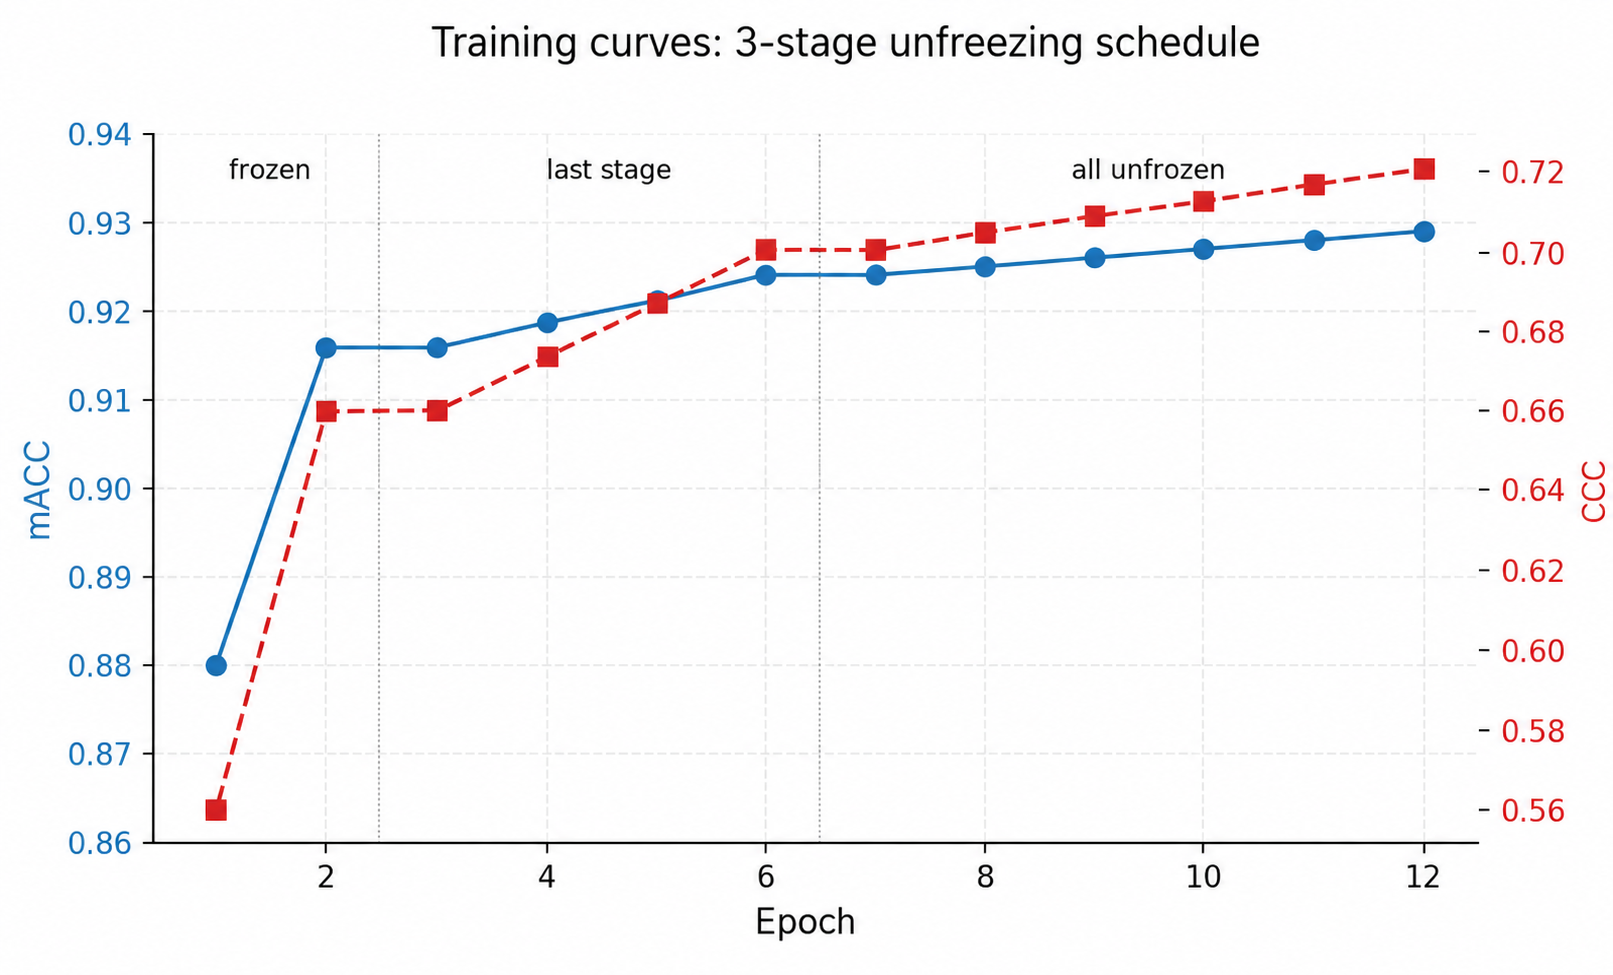
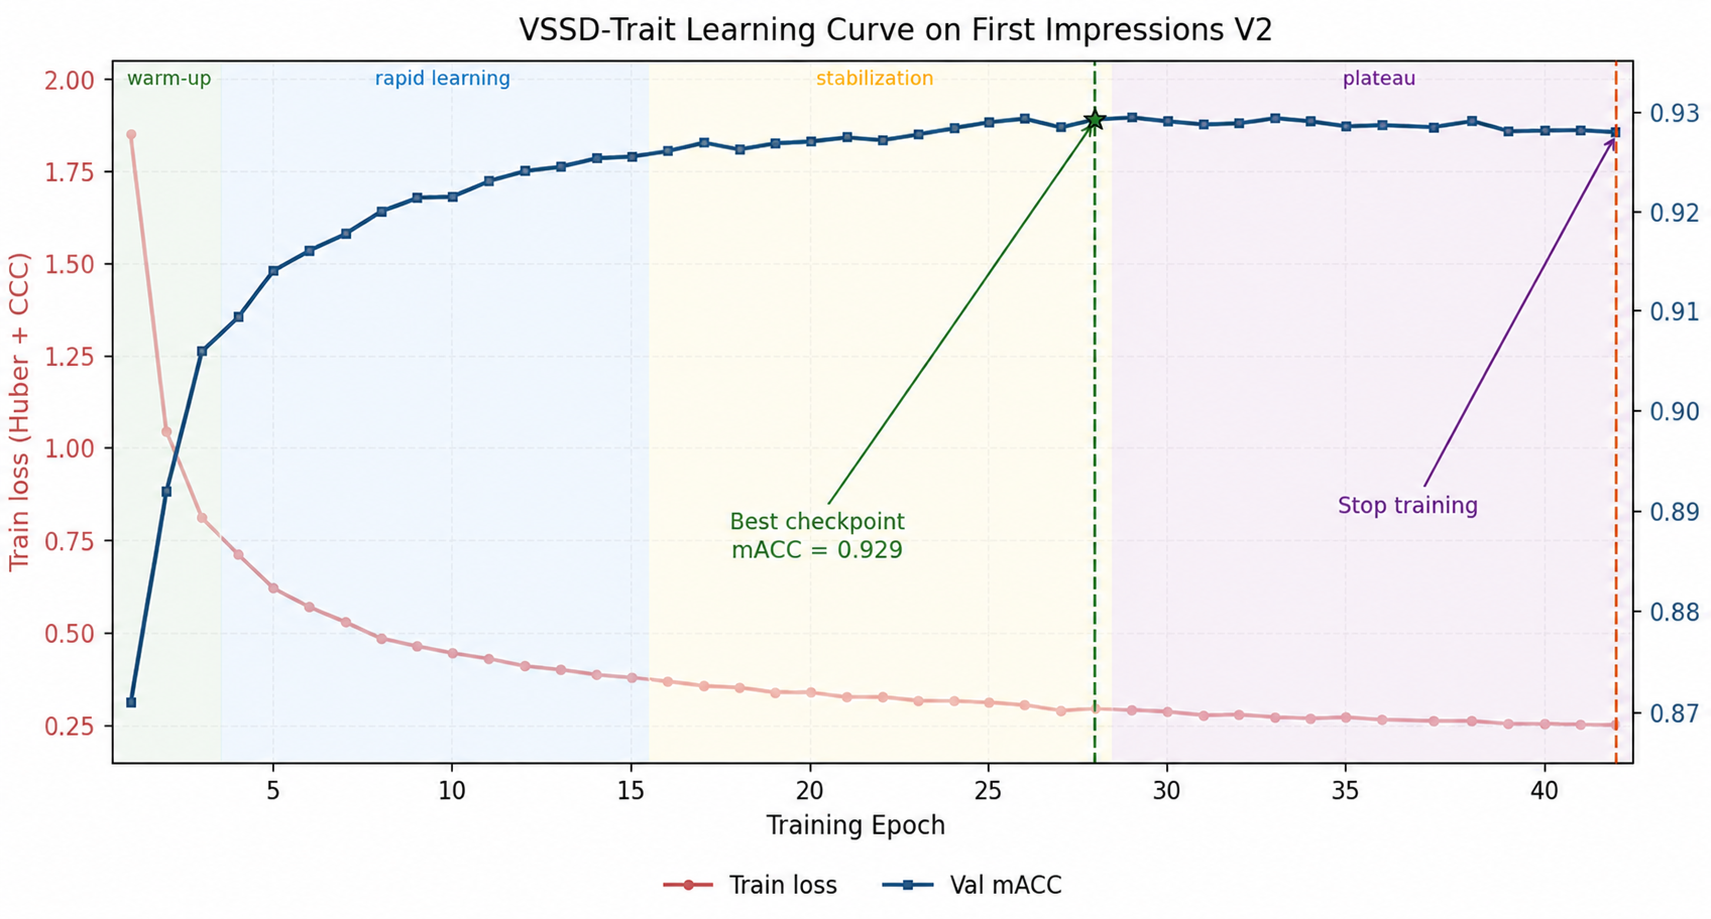
add pic of learning curve

diff --git a/docs/results.md b/docs/results.md
@@ -4,7 +4,7 @@
 > measurement, no further tuning). `mACC = 1 − mean MAE` over the five
 > Big Five traits; `CCC` = mean concordance correlation coefficient.
 
-## Table 1 — Modality ablation
+## Modality ablation
 
 | Configuration             | O    | C    | E    | A    | N    | mACC | CCC  |
 | ------------------------- | ---- | ---- | ---- | ---- | ---- | ---- | ---- |
@@ -22,7 +22,7 @@ and **Neuroticism** (+0.010); text adds a smaller but consistent
 +0.003 mACC and becomes the model's safety net under audio degradation
 (Table 4).
 
-## Table 2 — Architectural ablation
+## Architectural ablation
 
 | Configuration                                | mACC  | CCC   | ΔmACC  |
 | -------------------------------------------- | ----- | ----- | ------ |
@@ -45,7 +45,7 @@ duality is the most load-bearing design choice. Dropping the windowed
 representation costs another 0.006 mACC, confirming the value of local
 mimic / prosody synchronisation enabled by level-1 fusion.
 
-## Table 3 — Computational characteristics
+## Computational characteristics
 
 | Method                          | Params (M) | FLOPs (G/clip) | GPU lat. (ms) | CPU lat. (ms) | Peak mem (MB) |
 | ------------------------------- | ---------- | -------------- | ------------- | ------------- | ------------- |
@@ -64,12 +64,12 @@ VSSD-Trait sits on the upper-left of the parameters / quality frontier
 — same or better mACC than competing multimodal methods at **2–2.5×
 fewer trainable parameters**.
 
-## Tables 4–7 — Robustness to input degradations
+## Robustness to input degradations
 
 All four experiments reuse the **clean-trained** V+A+T checkpoint;
 nothing is fine-tuned for the corrupted inputs.
 
-### Table 4 — Audio noise (additive Gaussian)
+### Audio noise (additive Gaussian)
 
 | SNR        | V+A+T mACC | ΔmACC  | V+A mACC | Δ vs clean V+A |
 | ---------- | ---------- | ------ | -------- | -------------- |
@@ -85,7 +85,7 @@ specifically as a noise safety net.
   <img src="../results/figures/figure_4_audio_noise.png" alt="Audio noise robustness" width="480">
 </p>
 
-### Table 5 — JPEG compression
+### JPEG compression
 
 | Quality  | mACC  | ΔmACC  |
 | -------- | ----- | ------ |
@@ -98,7 +98,7 @@ specifically as a noise safety net.
   <img src="../results/figures/figure_5_jpeg_compression.png" alt="JPEG compression robustness" width="480">
 </p>
 
-### Table 6 — FPS decimation
+### FPS decimation
 
 | FPS        | mACC  | ΔmACC  | Frames / clip |
 | ---------- | ----- | ------ | ------------- |
@@ -111,7 +111,7 @@ specifically as a noise safety net.
   <img src="../results/figures/figure_6_fps_decimation.png" alt="FPS decimation" width="480">
 </p>
 
-### Table 7 — Face occlusions
+### Face occlusions
 
 | Occlusion type             | mACC  | ΔmACC  | Most affected trait     |
 | -------------------------- | ----- | ------ | ----------------------- |
@@ -130,7 +130,7 @@ occlusion harming Agreeableness (gaze direction, peri-orbital region)
 — both consistent with psychophysiological literature on personality
 perception.
 
-## Table 8 — Per-trait fusion weights
+## Per-trait fusion weights
 
 | Trait                       | w_V (video) | w_A (audio) | w_T (text) | Dominant modality |
 | --------------------------- | ----------- | ----------- | ---------- | ----------------- |
@@ -149,7 +149,7 @@ The learnt gate matches classical psychoacoustic intuition:
 **Conscientiousness** and **Agreeableness** lean on visual cues;
 **Openness** is the only balanced trait.
 
-## Table 9 — Temporal attention
+## Temporal attention
 
 The window-attention profile, averaged over 2 000 test clips and 5
 seeds, is a smooth bell with a maximum on windows 7–8 (≈ 6–9 s into
@@ -171,7 +171,7 @@ around the mouth.
   <img src="../results/figures/figure_gradcam_neuroticism.jpg" alt="Grad-CAM — Neuroticism" width="280">
 </p>
 
-## Table 10 — 5-seed reproducibility
+## 5-seed reproducibility
 
 | Metric                | Mean  | Std   | 95 % CI            |
 | --------------------- | ----- | ----- | ------------------ |
@@ -192,7 +192,32 @@ CAT-BE, i.e. the improvement over those baselines is statistically
 significant. Seeds `{42, 123, 456, 789, 2024}`, t-distribution with
 df = 4.
 
-## Table 11 — Final comparison
+## Training stop control
+
+To verify that the early-stopping rule (see
+[`docs/architecture.md`](architecture.md#training-schedule)) fires at
+the right epoch, one run was extended past the trigger with the rule
+disabled. The trajectory decomposes into four stages:
+
+| Stage         | Epochs | Train loss   | Val mACC          |
+| ------------- | ------ | ------------ | ----------------- |
+| Warmup        | 1–3    | 1.85 → 1.26  | 0.870 → 0.905     |
+| Fast learning | 4–15   | 1.26 → 0.38  | 0.905 → 0.926     |
+| Stabilization | 16–28  | 0.38 → 0.29  | 0.926 → **0.929** |
+| Plateau       | 29–42  | 0.29 → 0.25  | 0.929 → 0.928     |
+
+<p align="center">
+  <img src="../results/figures/figure_12_training_curves.png" alt="Training curves with early stopping disabled" width="780">
+</p>
+
+The best checkpoint lands at epoch 28 — exactly where the rule would
+fire. Past that point the training loss keeps falling (0.29 → 0.25)
+while validation mACC oscillates within 0.001 and ends below the peak:
+the canonical signature of overfitting. Extending training therefore
+yields no generalization gain, confirming the chosen stopping
+criterion.
+
+## Final comparison
 
 | Method                | Mod.            | mACC          | CCC          |
 | --------------------- | --------------- | ------------- | ------------ |

diff --git a/docs/architecture.md b/docs/architecture.md
@@ -206,6 +206,14 @@ accumulation = 2; max-norm clipping at 1.0. A full training run takes
 ~18 h on a single NVIDIA RTX 3090 (24 GB). The corresponding curves
 of mACC and CCC across the three stages are shown below.
 
+**Early stopping.** After every epoch the summary validation mACC is
+evaluated and the best-so-far checkpoint kept; training halts once
+the metric fails to improve by more than a negligible threshold for a
+fixed observation window and the parameters are restored from that
+checkpoint. The window is sized to exceed the characteristic noise
+amplitude on the stabilization plateau, so the criterion is
+reproducible without committing to a fixed epoch budget. 
+
 <p align="center">
   <img src="../results/figures/figure_12_training_curves.png" alt="Training curves" width="640">
 </p>